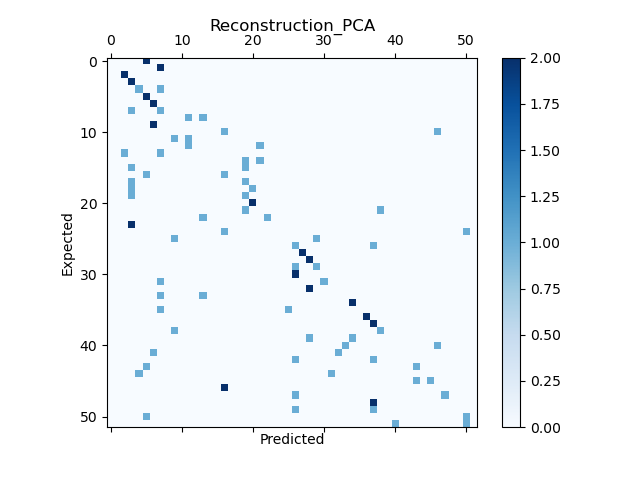
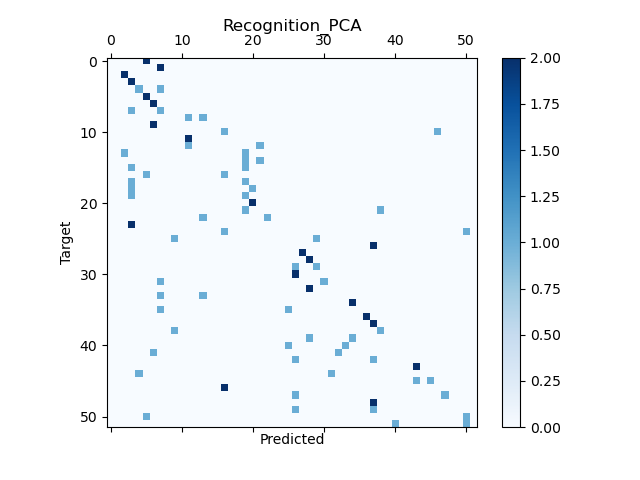
add Scatter Matrix Rank

diff --git a/Q3/lda.py b/Q3/lda.py
@@ -18,12 +18,13 @@ from sklearn.metrics import confusion_matrix
 from sklearn.metrics import accuracy_score
 from sklearn.preprocessing import StandardScaler
 from mpl_toolkits.mplot3d import Axes3D
-from Q3.utils.visualize import visualize_faces_with_row_label
+from einops import rearrange
 
-
+from utils.visualize import visualize_faces_with_row_label
 from utils.dataset import split_train_test
 from utils.visualize import visualize_confusion_matrix
 from utils.visualize import visualize_faces
+from utils.visualize import visualize_face
 
 warnings.filterwarnings("ignore")
 
@@ -127,27 +128,65 @@ if __name__ == '__main__':
     calculation_time = {}
 
     """ 0. Normalize """
-    sc = StandardScaler()
-    x_train = sc.fit_transform(x_train)
-    x_test = sc.transform(x_test)
+    x_train_original = x_train.copy()
+    x_test_original = x_test.copy()
+    average_face = np.average(x_train, axis=0)
+
+    # sc = StandardScaler()
+    # x_train = sc.fit_transform(x_train)
+    # x_test = sc.transform(x_test)
     
 
     """ 1. PCA """
     start = time.time()
-    pca = PCA(n_components=51)
-    x_train_pca = pca.fit(x_train).transform(x_train)
+    pca = PCA(n_components=364)
+    x_train_pca = pca.fit(x_train).transform(x_train)  # N, Mpca 
     x_test_pca = pca.transform(x_test)
     calculation_time['pca'] = time.time() - start
 
+    subtracted_faces = x_train - average_face
+    covariance = (subtracted_faces.T @ subtracted_faces) / subtracted_faces.shape[0]
+    scatter_PCA = pca.components_ @ covariance @ pca.components_.T
+    scatter_PCA = np.fix(scatter_PCA)
+    rank_scatter_PCA = np.linalg.matrix_rank(scatter_PCA)
+    rank_scatter_original = np.linalg.matrix_rank(covariance)
+    
+
+    
     """ 2. LDA """
     start = time.time()
-    lda = LinearDiscriminantAnalysis(n_components=51)
+    n_components=3
+    lda = LinearDiscriminantAnalysis(n_components=n_components)
     x_train_lda = lda.fit(x_train_pca, y_train).transform(x_train_pca)
     x_test_lda = lda.transform(x_test_pca)
     # x_train_lda = lda.fit(x_train, y_train).transform(x_train)
     # x_test_lda = lda.transform(x_test)
     calculation_time['lda'] = time.time() - start
     
+    temp_face = rearrange(x_train, '(A B) D -> A B D', A=52, B=8, D=2576)
+    temp_mean = np.mean(temp_face, axis=1)
+    mean_list = temp_mean - average_face
+    scatter_between_temp = 8 * mean_list.T @ mean_list
+    original_rank_scatter_between = np.linalg.matrix_rank(scatter_between_temp)
+    scatter_Between = pca.components_ @ (scatter_between_temp) @ pca.components_.T 
+    scatter_Between = np.fix(scatter_Between)
+    rank_scatter_Between = np.linalg.matrix_rank(scatter_Between)
+
+    temp_face_within = temp_face - rearrange(temp_mean, 'N D -> N 1 D', N=52, D=2576)
+    temp_within = rearrange(temp_face_within, 'A B D -> (A B) D', A=52, B=8, D=2576)
+    original_rank_scatter_within = np.linalg.matrix_rank(temp_within)
+    scatter_Within = pca.components_ @ (temp_within.T @ temp_within) @ pca.components_.T
+    scatter_Within = np.fix(scatter_Within)
+    rank_scatter_Within = np.linalg.matrix_rank(scatter_Within)
+    
+    scatter_total = np.linalg.inv(scatter_Within) @ scatter_Between
+    scatter_total = np.fix(scatter_total)
+    
+    scatter_lda = lda.scalings_[:, :n_components].T @ scatter_total @ lda.scalings_[:, :n_components]
+    scatter_lda = np.fix(scatter_lda)
+    rank_scatter_LDA = np.linalg.matrix_rank(scatter_lda)
+
+
     """ 3. NN Classification """
     """ 3.1 Vanilla """
     check_memory("Vanilla_Before_Recognition")
@@ -157,18 +196,26 @@ if __name__ == '__main__':
     prediction = clf.predict(x_test)
     calculation_time['clf_vanilla'] = time.time() - start
     check_memory("Vanilla_After_Recognition")
-    # print("clf.score             : {0:.3f}".format(clf.score(x_train, y_train)))
-    # print("clf.score             : {0:.3f}".format(clf.score(x_test, y_test)))
+    print("clf.score             : {0:.3f}".format(clf.score(x_train, y_train)))
+    print("clf.score             : {0:.3f}".format(clf.score(x_test, y_test)))
     
-    # success_case = np.where(prediction == y_test)[0]
-    # fail_case = np.where(prediction != y_test)[0]
-    # visualize_faces(faces=np.array(x_test[success_case[0:3]]), n=1, title="success_case_vanilla", cols=3, rows=1)
-    # visualize_faces(faces=np.array(x_test[fail_case[0:3]]), n=1, title="fail_case_vanilla", cols=3, rows=1)
+    """ 3.1.1 Examples """
+    diff = prediction - rearrange(y_test, 'N 1 -> N', N=104)
+    success_case = np.where(diff == 0)[0]
+    success_indices = np.random.choice(len(success_case), 5, replace=False)
+    success_images = np.array(x_test_original[success_indices])
+    visualize_faces(faces=success_images, n=1, title="success_case_vanilla", cols=5, rows=1)
+    fail_case = np.where(diff != 0)[0]
+    fail_indices = np.random.choice(len(fail_case), 5, replace=False)
+    fail_indices_target = prediction[fail_indices]
+    fail_images = np.concatenate([x_test_original[fail_indices_target], x_test_original[fail_indices]], axis=0)
+    visualize_faces_with_row_label(faces=fail_images, n=1, title="fail_case_vanilla", cols=5, rows=2, rows_label=['Target', 'Predicted'])
 
-    # print("(pred == y_test) score: {0:.3f}".format((prediction == y_test).mean()))
-    # visualize_confusion_matrix(y_test, prediction, 'Recognition_Vanilla')
+    """ 3.1.2 Confusion Matrix """
+    visualize_confusion_matrix(y_test, prediction, 'Recognition_Vanilla')
     
-    # """ 3.2 PCA """
+
+    """ 3.2 PCA """
     check_memory("PCA_Before_Recognition")
     start = time.time()
     clf_pca = KNeighborsClassifier(n_neighbors=52)
@@ -176,17 +223,26 @@ if __name__ == '__main__':
     prediction_pca = clf_pca.predict(x_test_pca)
     calculation_time['clf_pca'] = time.time() - start
     check_memory("PCA_After_Recognition")
-    # print("clf.score             : {0:.3f}".format(clf_pca.score(x_train_pca, y_train)))
-    # print("clf.score             : {0:.3f}".format(clf_pca.score(x_test_pca, y_test)))
-    # # print("(pred == y_test) score: {0:.3f}".format((prediction_pca == y_test).mean()))
-    # # visualize_confusion_matrix(y_test, prediction_pca, 'Recognition_PCA')
-    # success_case = np.where(prediction_pca == y_test)[0]
-    # fail_case = np.where(prediction_pca != y_test)[0]
-    # visualize_faces(faces=np.array(x_test[success_case[0:3]]), n=1, title="success_case_pca", cols=3, rows=1)
-    # visualize_faces(faces=np.array(x_test[fail_case[0:3]]), n=1, title="fail_case_pca", cols=3, rows=1)
+    print("clf.score             : {0:.3f}".format(clf_pca.score(x_train_pca, y_train)))
+    print("clf.score             : {0:.3f}".format(clf_pca.score(x_test_pca, y_test)))
+    
+    """ 3.2.1 Examples """
+    diff = prediction_pca - rearrange(y_test, 'N 1 -> N', N=104)
+    success_case = np.where(diff == 0)[0]
+    success_indices = np.random.choice(len(success_case), 5, replace=False)
+    success_images = np.array(x_test_original[success_indices])
+    visualize_faces(faces=success_images, n=1, title="success_case_pca", cols=5, rows=1)
+    fail_case = np.where(diff != 0)[0]
+    fail_indices = np.random.choice(len(fail_case), 5, replace=False)
+    fail_indices_target = prediction_pca[fail_indices]
+    fail_images = np.concatenate([x_test_original[fail_indices_target], x_test_original[fail_indices]], axis=0)
+    visualize_faces_with_row_label(faces=fail_images, n=1, title="fail_case_pca", cols=5, rows=2, rows_label=['Target', 'Predicted'])
+
+    """ 3.2.2 Confusion Matrix """
+    visualize_confusion_matrix(y_test, prediction_pca, 'Recognition_PCA')
 
 
-    # """ 3.3 PCA + LDA """
+    """ 3.3 PCA + LDA """
     check_memory("LDA_Before_Recognition")
     start = time.time()
     clf_lda = KNeighborsClassifier(n_neighbors=52)
@@ -194,22 +250,23 @@ if __name__ == '__main__':
     prediction_lda = clf_lda.predict(x_test_lda)
     calculation_time['clf_lda'] = time.time() - start
     check_memory("LDA_After_Recognition")
+    print("clf.score             : {0:.3f}".format(clf_lda.score(x_train_lda, y_train)))
+    print("clf.score             : {0:.3f}".format(clf_lda.score(x_test_lda, y_test)))
     
-    # print("clf.score             : {0:.3f}".format(clf_lda.score(x_train_lda, y_train)))
-    # print("clf.score             : {0:.3f}".format(clf_lda.score(x_test_lda, y_test)))
-    # # print("(pred == y_test) score: {0:.3f}".format(np.mean((prediction_lda == y_test))))
-    # # visualize_confusion_matrix(y_test, prediction_lda, 'Recognition_LDA')
-    success_case = np.where(prediction_lda == y_test)[0]
+    """ 3.3.1 Examples """
+    diff = prediction_lda - rearrange(y_test, 'N 1 -> N', N=104)
+    success_case = np.where(diff == 0)[0]
     success_indices = np.random.choice(len(success_case), 5, replace=False)
-    success_images = np.array(x_test[success_indices])
-
-    fail_case = np.where(prediction_lda != y_test)[0]
-    fail_indices = np.random.choice(len(fail_case), 5, replace=False)
-    fail_indices_target = prediction_lda[indices]
-    fail_images = np.concatenate([x_test[fail_indices], x_test[fail_indices_target]], axis=0)
-
+    success_images = np.array(x_test_original[success_indices])
     visualize_faces(faces=success_images, n=1, title="success_case_lda", cols=5, rows=1)
-    visualize_faces_with_row_label(faces=fail_images, n=1, title="fail_case_lda", cols=5, rows=2)
+    fail_case = np.where(diff != 0)[0]
+    fail_indices = np.random.choice(len(fail_case), 5, replace=False)
+    fail_indices_target = prediction_lda[fail_indices]
+    fail_images = np.concatenate([x_test_original[fail_indices_target], x_test_original[fail_indices]], axis=0)
+    visualize_faces_with_row_label(faces=fail_images, n=1, title="fail_case_lda", cols=5, rows=2, rows_label=['Target', 'Predicted'])
+
+    """ 3.3.2 Confusion Matrix """
+    visualize_confusion_matrix(y_test, prediction_lda, 'Recognition_LDA')
 
 
     # target = np.array(max_accuracy_target)[indices]
@@ -221,5 +278,10 @@ if __name__ == '__main__':
     # inp = np.concatenate([target, target_reconstructed, nearest_neighbor, nearest_neighbor_reconstructed], axis=0)
     # visualize_faces_with_row_label(inp, n=1, rows=4, cols=5, title="Nearest Neighbor Fail Cases")
 
-    """ Measure Recognition Accuracies """
+    """ 4. Measure Recognition Accuracies """
     # recognition_accuracies(dataset=dataset)
+    
+    """ 5. Calculation Time """
+    for key, value in calculation_time.items():
+      print("Calculation Time " + key + ": ", value)
+

diff --git a/Q3/utils/visualize.py b/Q3/utils/visualize.py
@@ -12,7 +12,7 @@ def visualize_confusion_matrix(y_test, prediction, title):
     plt.xlabel('Predicted')
     plt.ylabel('Target')
     plt.title(title)
-    plt.savefig("Q3/figures/" + title + ".png")
+    plt.savefig("figures/" + title + ".png")
     # plt.show()
 
 def visualize_face(face, shape=(46, 56), title=None):
@@ -21,7 +21,7 @@ def visualize_face(face, shape=(46, 56), title=None):
 
     if title is not None:
         plt.title(title)
-        plt.savefig("Q3/figures/" + title + ".png")
+        plt.savefig("figures/" + title + ".png")
     else:
         plt.show()
 
@@ -59,7 +59,7 @@ def visualize_faces(faces, n=1, shape=(46, 56), random=False, identities=None, t
             plt.imshow(face, cmap='gray')
 
         if title:
-          plt.savefig("Q3/figures/" + title + ".png")
+          plt.savefig("figures/" + title + ".png")
         else:
             plt.show()
 
